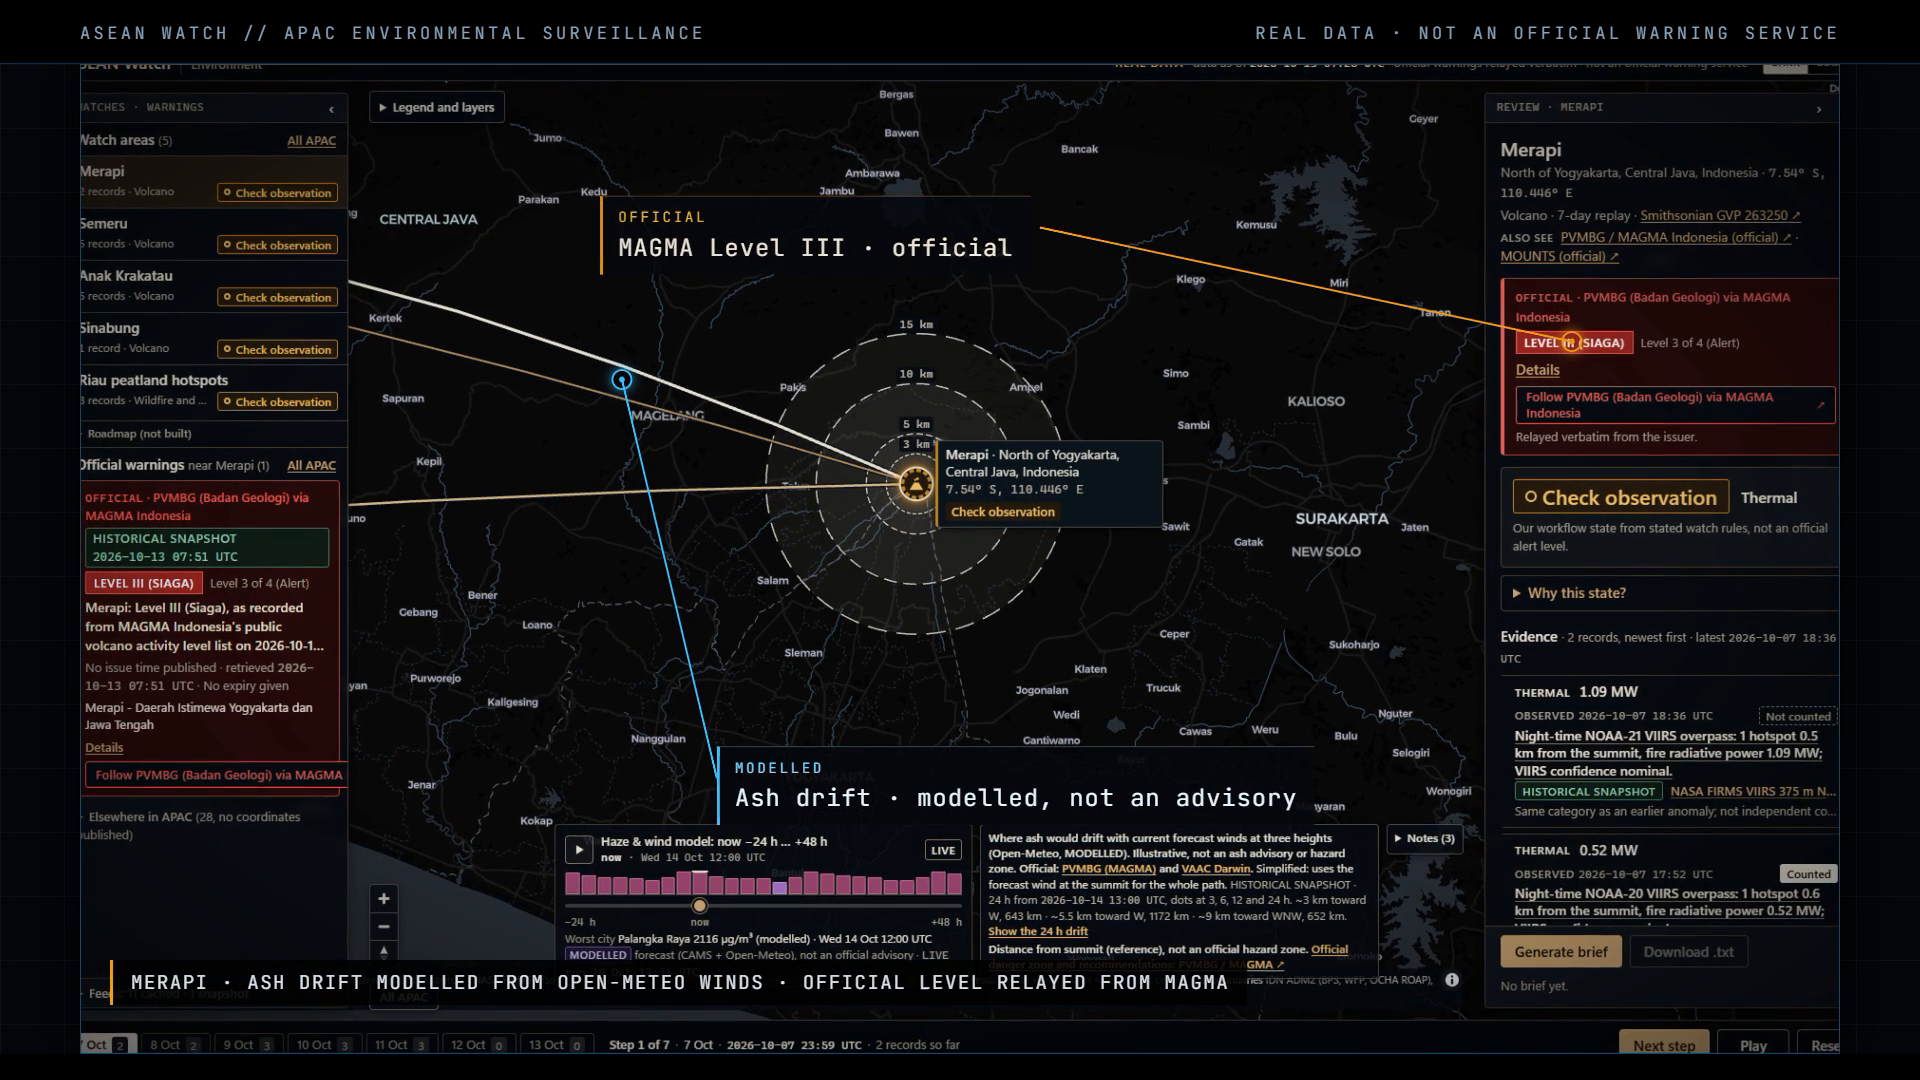
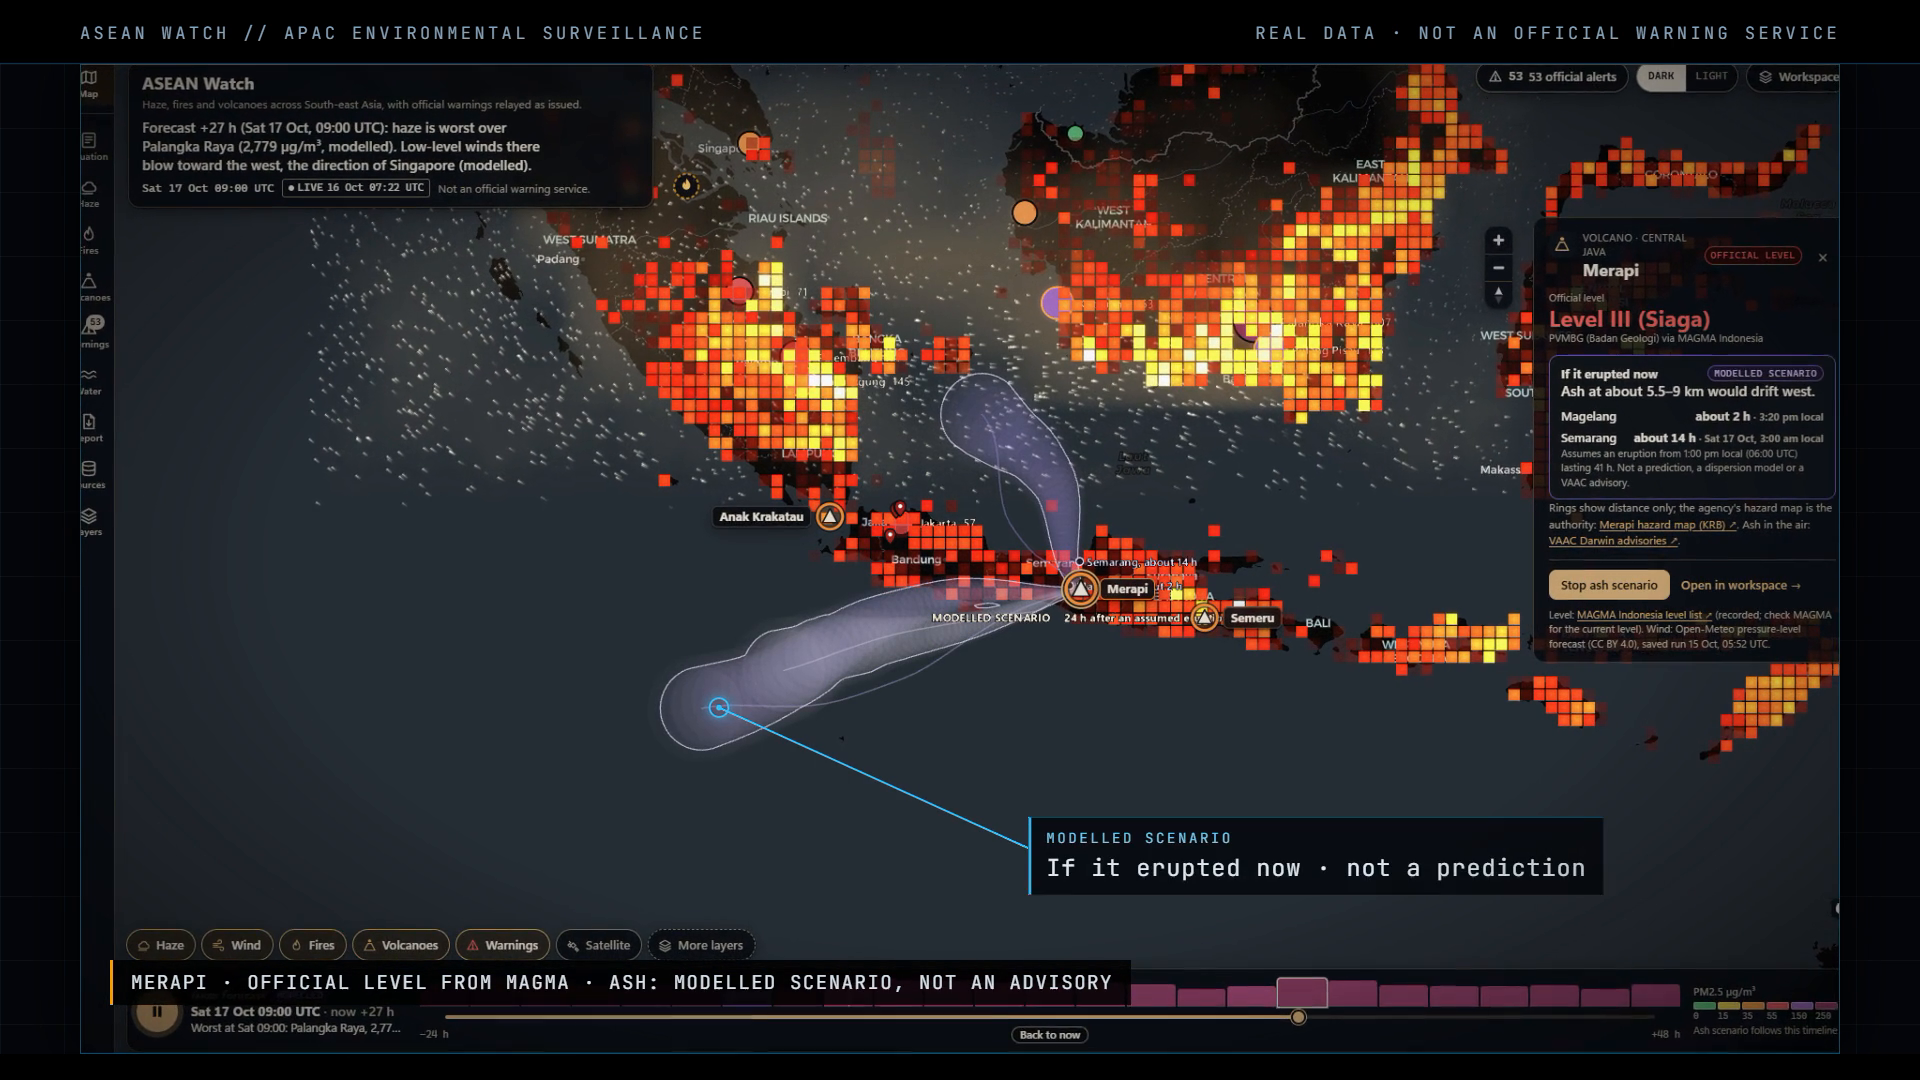
README: v6 demo video (UX v3: haze forecast, FIRMS fires, Merapi ash scenario, analyst workspace) with a captioned version; new poster

diff --git a/README.md b/README.md
@@ -40,9 +40,9 @@ The app has two modes on one map:
 
 ## Demo video (30 s)
 
-[![ASEAN Watch demo video](docs/media/demo-poster.png)](https://github.com/jensonrajawali10/asean-watch/releases/download/demo-2026-10-13/asean-watch-demo-30s.mp4)
+[![ASEAN Watch demo video](docs/media/demo-poster.png)](https://github.com/jensonrajawali10/asean-watch/releases/download/demo-2026-10-13/asean-watch-demo-30s-v6.mp4)
 
-[Watch or download the MP4](https://github.com/jensonrajawali10/asean-watch/releases/download/demo-2026-10-13/asean-watch-demo-30s.mp4) · [release notes](https://github.com/jensonrajawali10/asean-watch/releases/tag/demo-2026-10-13)
+[Watch or download the MP4](https://github.com/jensonrajawali10/asean-watch/releases/download/demo-2026-10-13/asean-watch-demo-30s-v6.mp4) (1920×1080, 13 MB; [captioned version](https://github.com/jensonrajawali10/asean-watch/releases/download/demo-2026-10-13/asean-watch-demo-30s-v6-captions.mp4)) · [release notes](https://github.com/jensonrajawali10/asean-watch/releases/tag/demo-2026-10-13)
 
 ## Quick start
 
